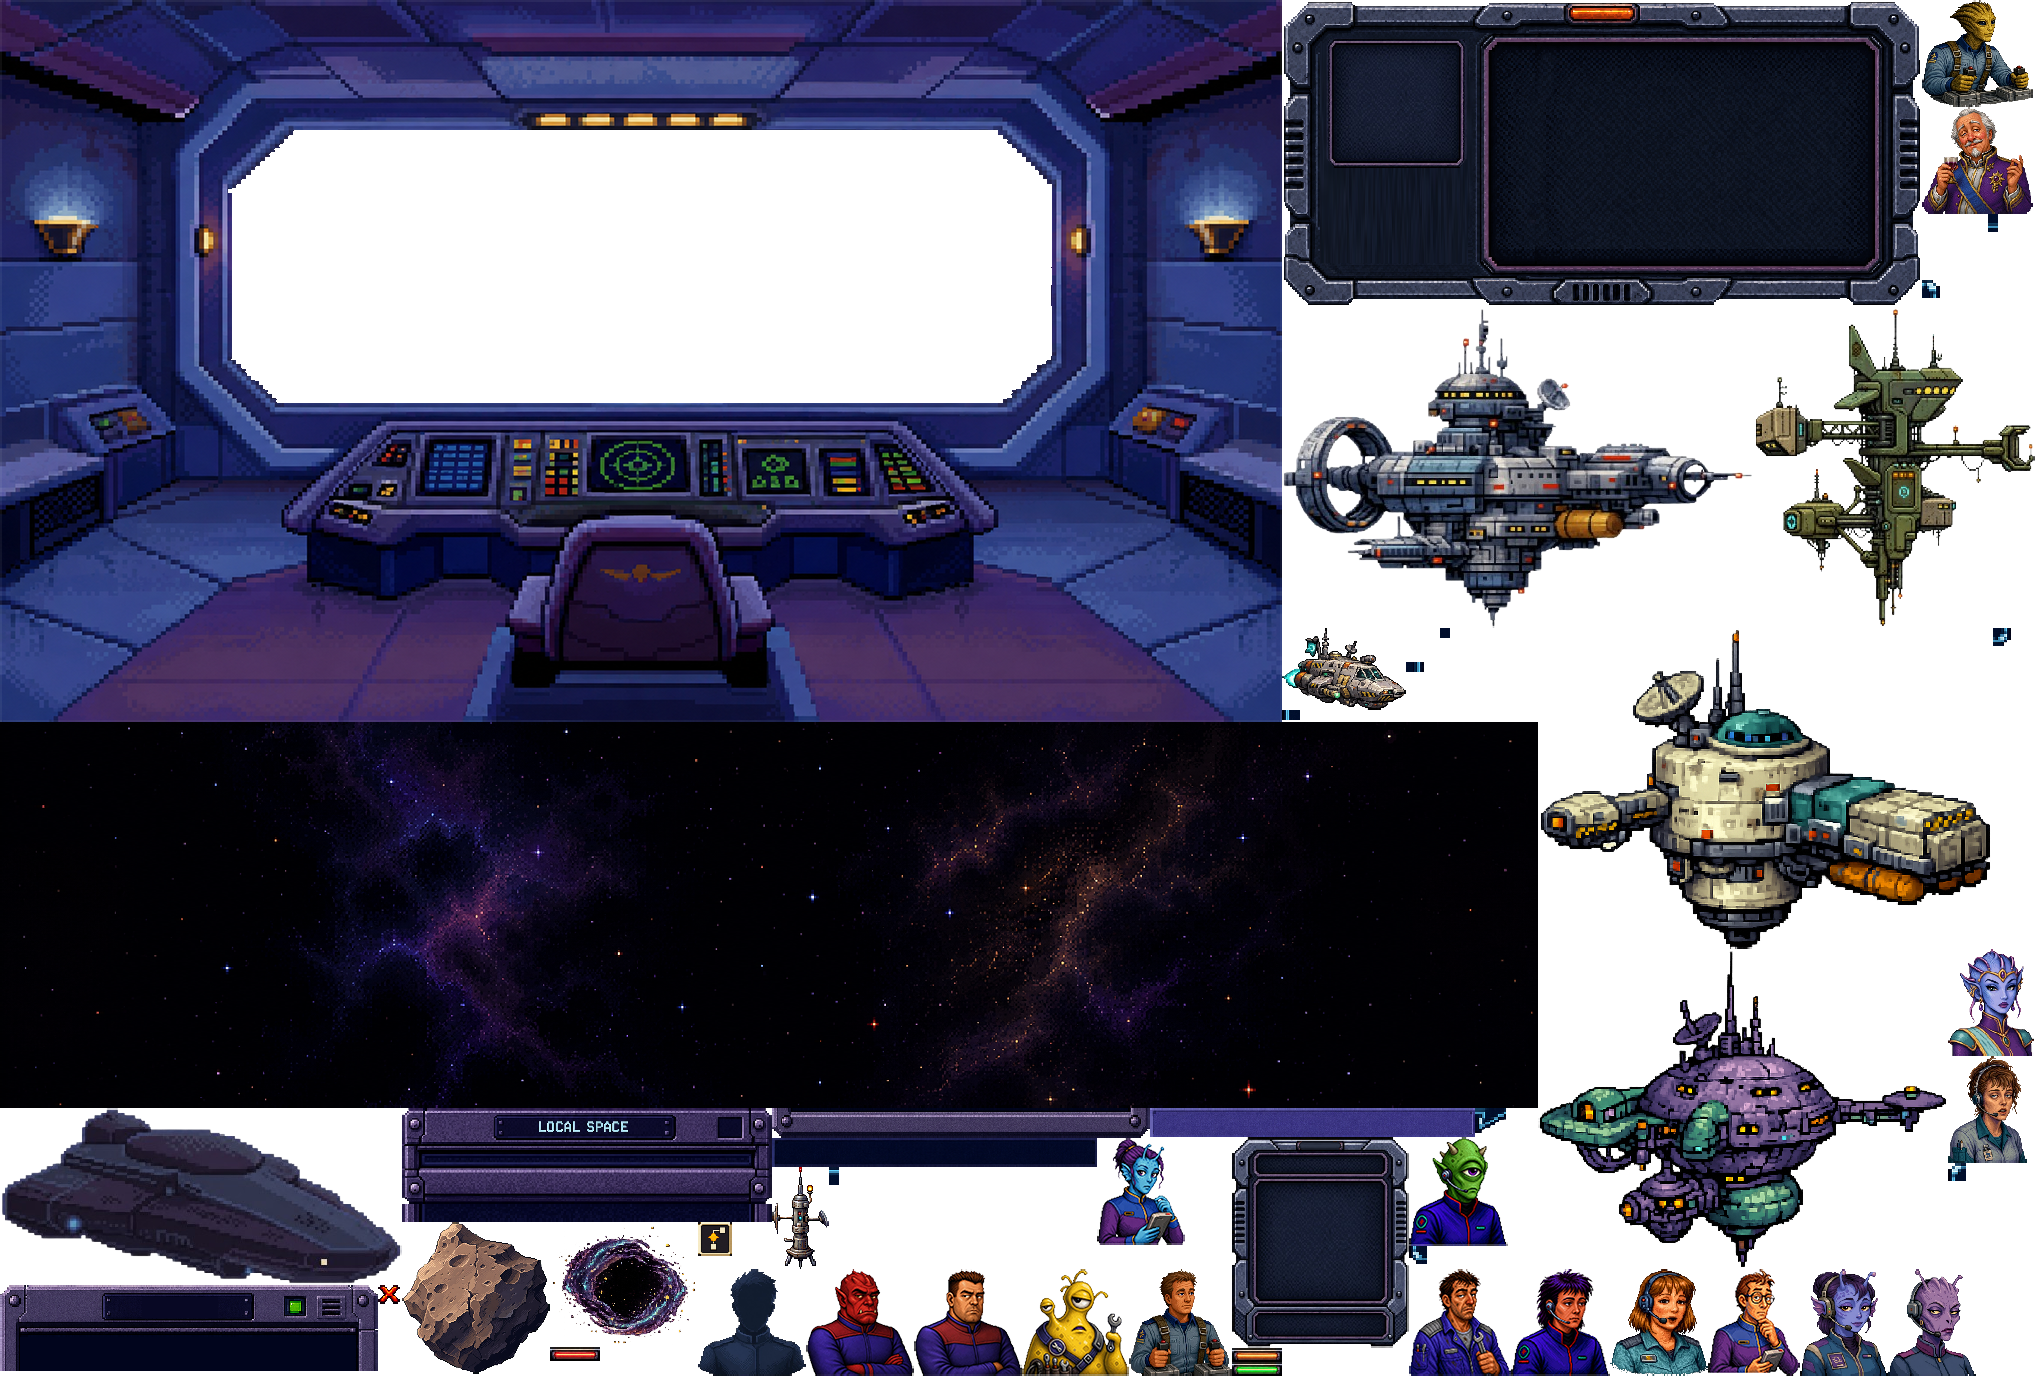
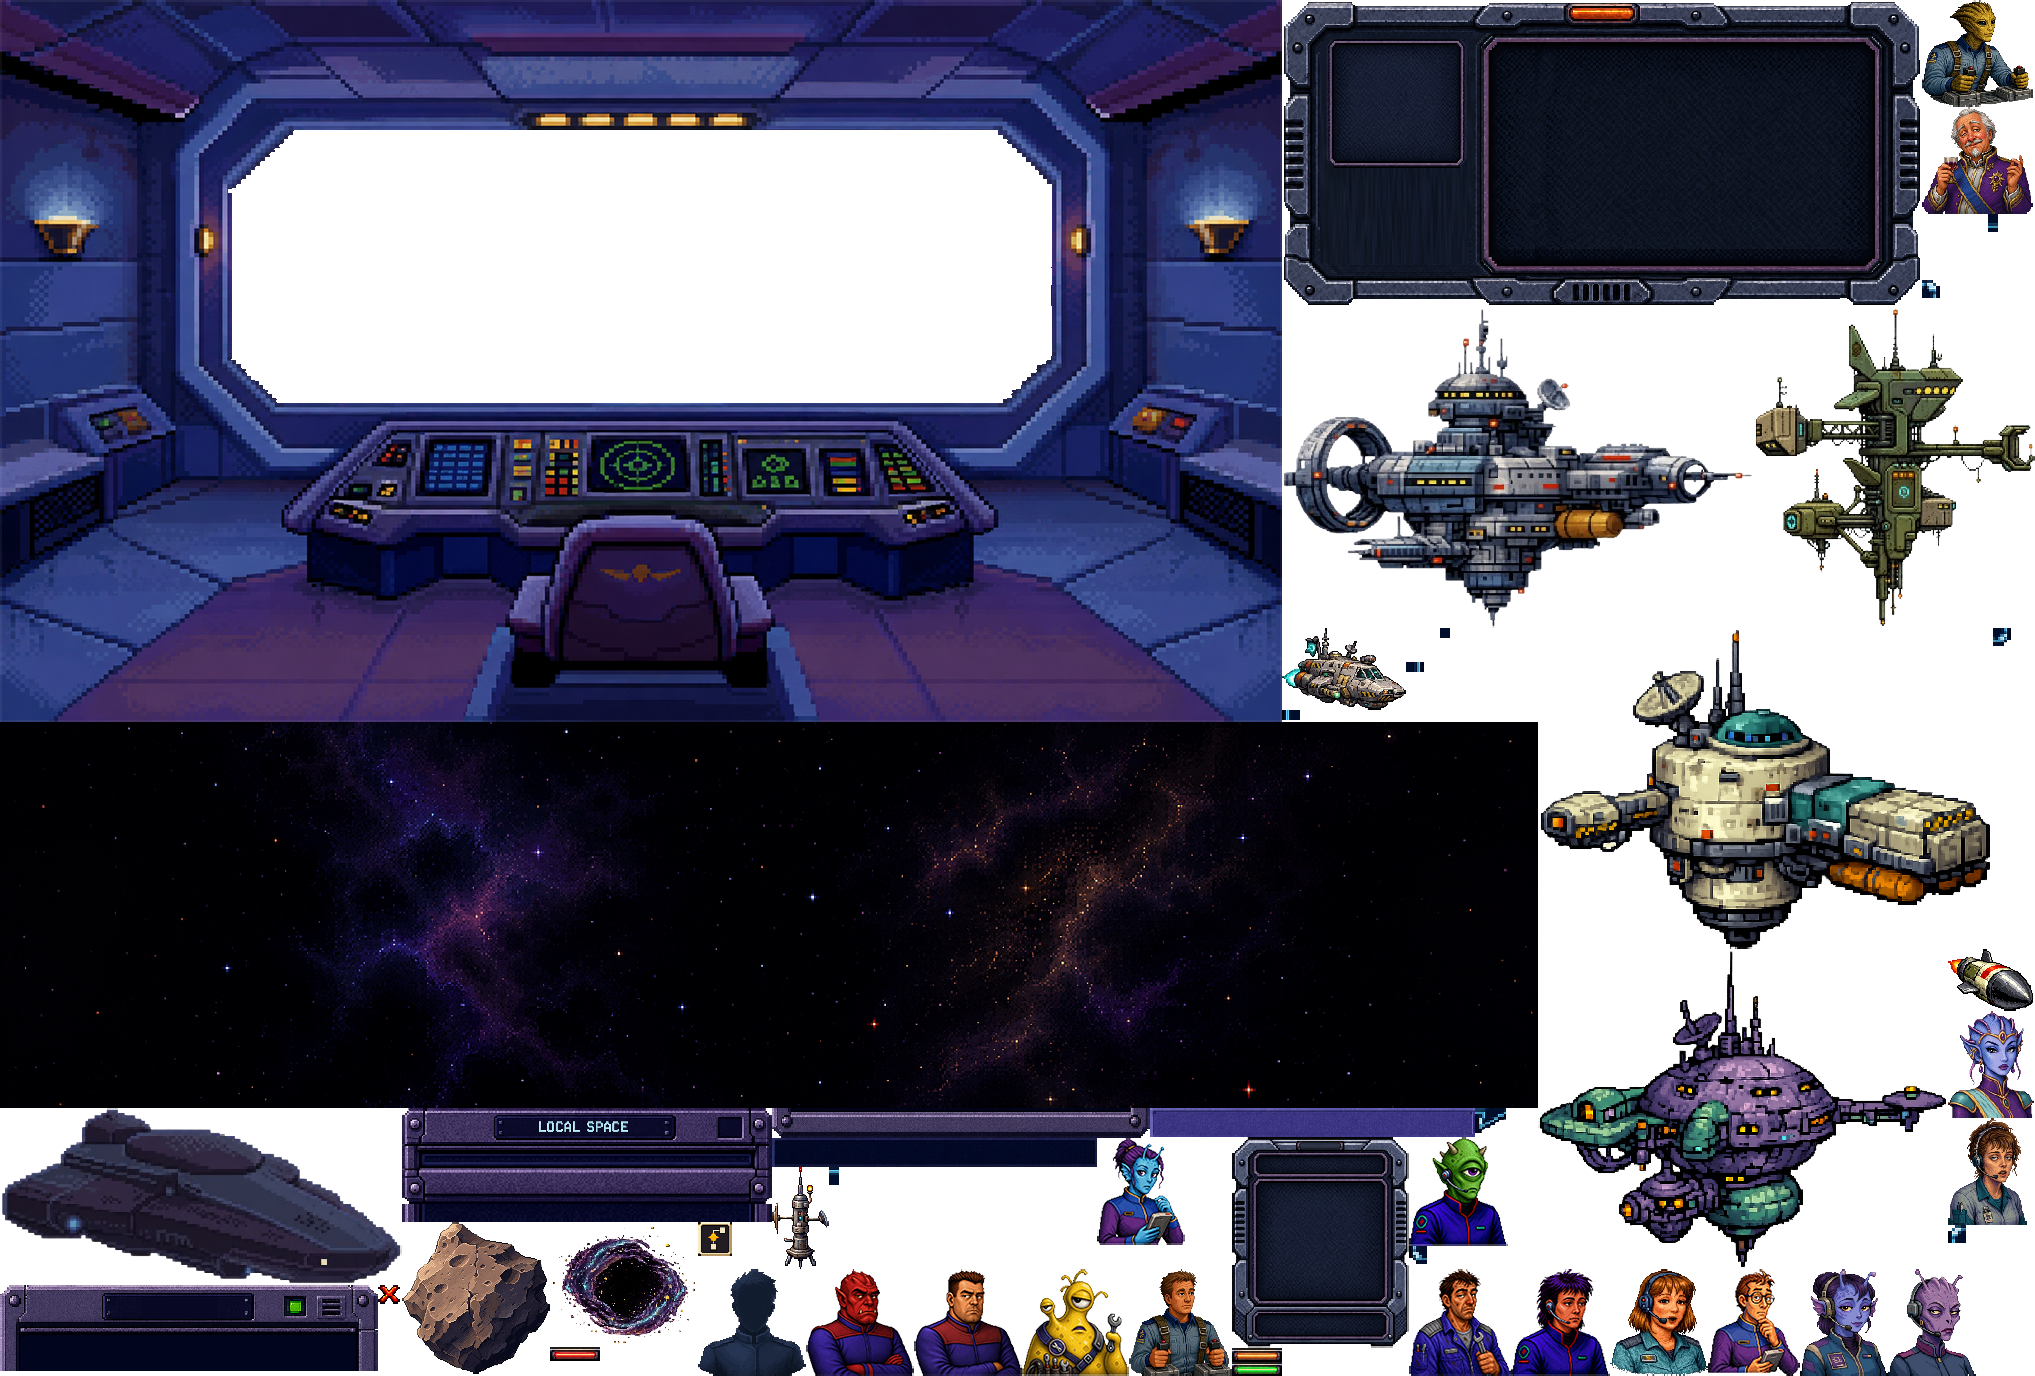
grind

Changed region(s): [[0.9597, 0.6875, 1.0, 0.9062]]

diff --git a/src/app/manifests/combat/missiles/missile_sprite.ts b/src/app/manifests/combat/missiles/missile_sprite.ts
@@ -1,0 +1,4 @@
+// src/app/manifests/combat/missiles/missile_sprite.ts
+export const MISSILE_SPRITE_ID = {
+    GENERIC_00: 'generic_00',
+} as const;
